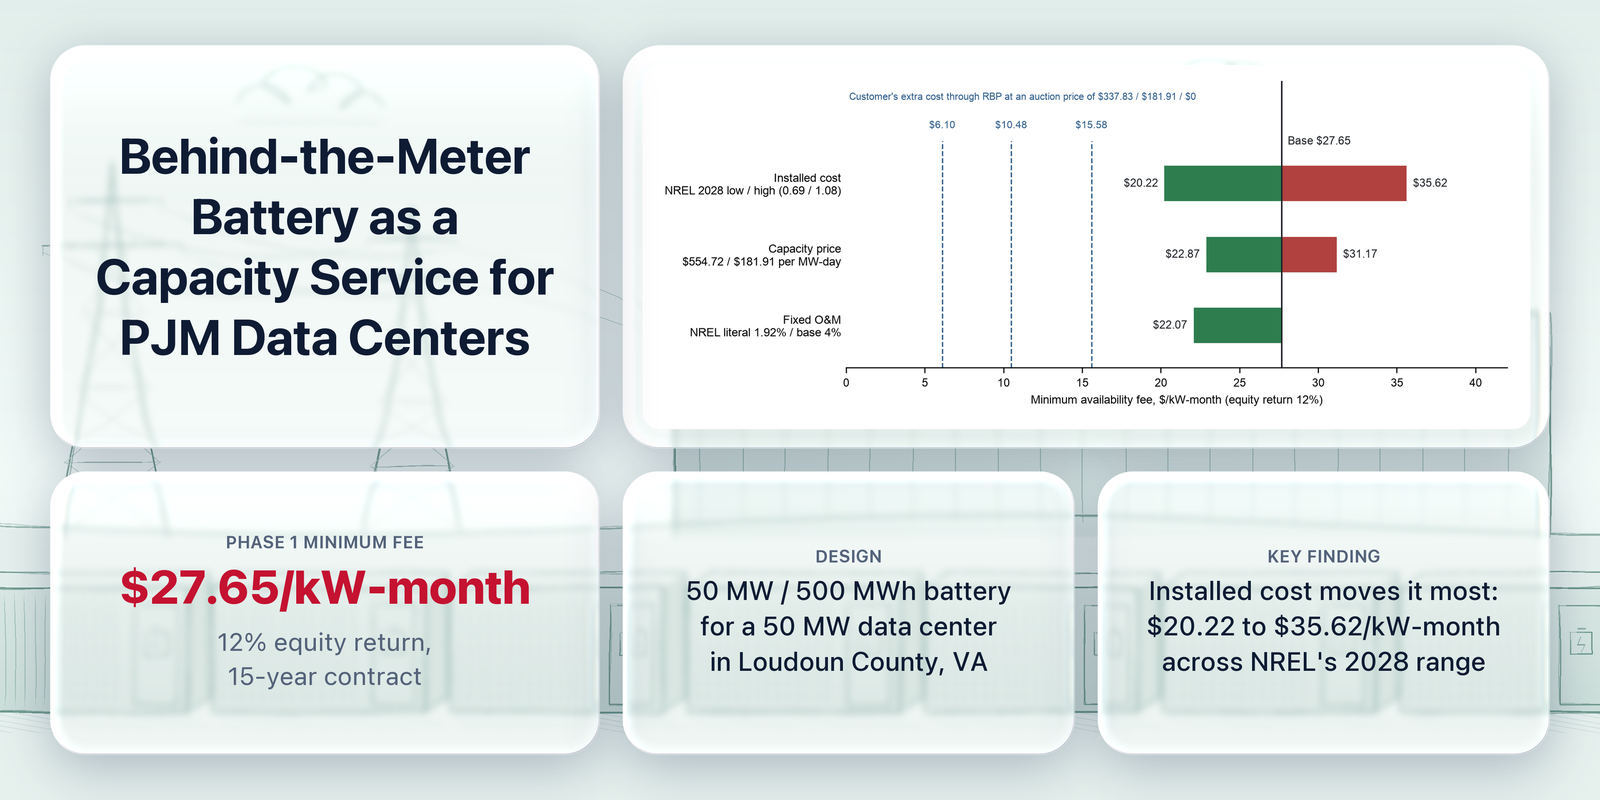
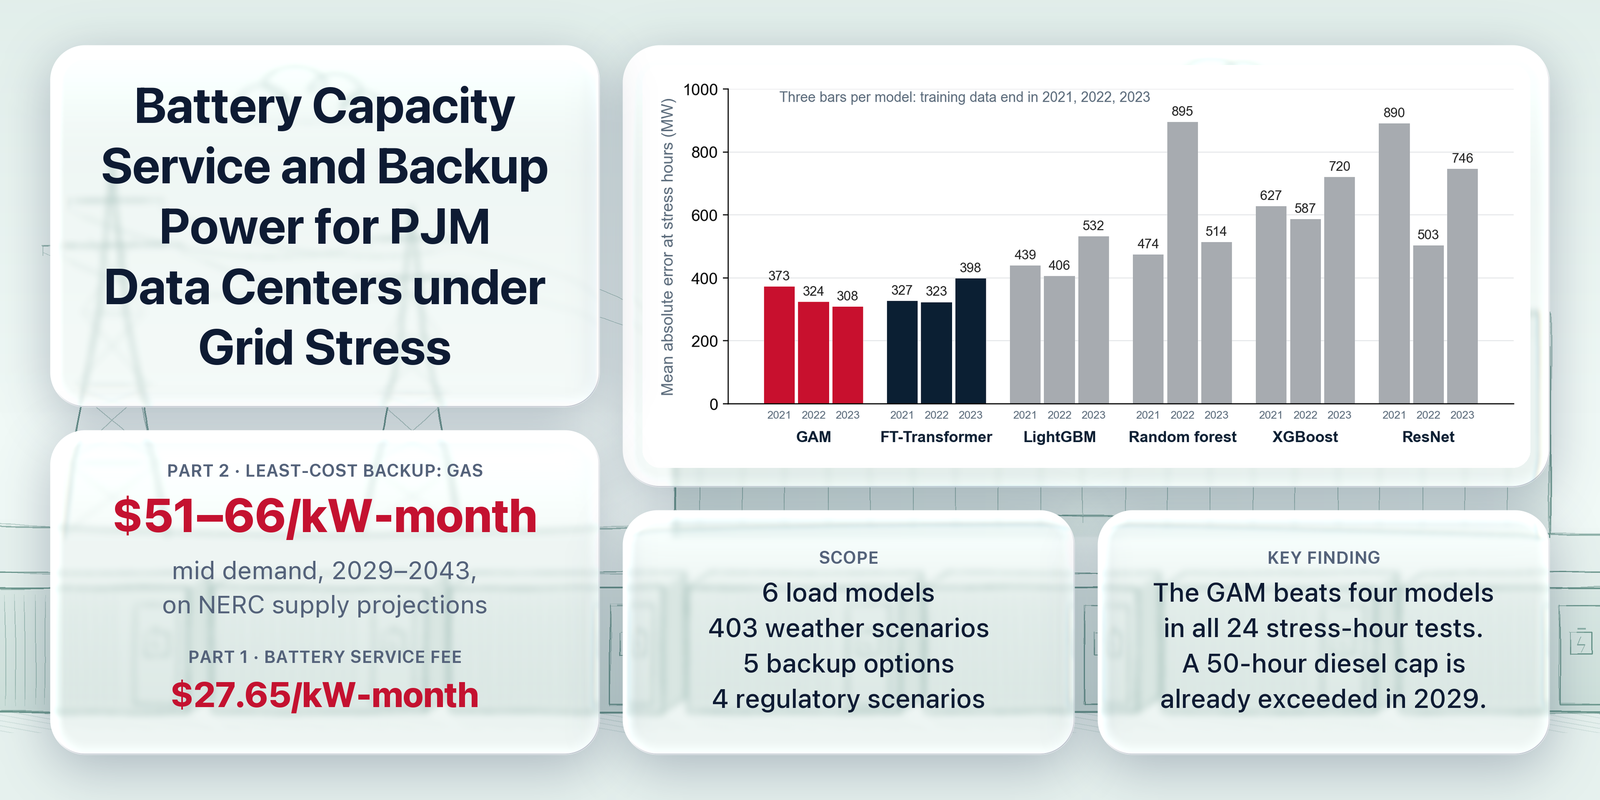
Add Part 2 results: load model comparison and least-cost backup

diff --git a/README.md b/README.md
@@ -1,30 +1,44 @@
-![Behind-the-Meter Battery as a Capacity Service for PJM Data Centers](figures/cover.png)
+![Battery Capacity Service and Backup Power for PJM Data Centers under Grid Stress](figures/cover.png)
 
-A feasibility study and 15-year project-finance model for a 50 MW / 500 MWh battery that would supply the new capacity a 50 MW data center in Loudoun County, Virginia, must bring under a proposed PJM rule.
+A two-part study of how a new 50 MW data center campus in PJM's Dominion zone (Loudoun County, Virginia) can keep its power when the grid is short. Part 1 prices a behind-the-meter battery as the campus's own capacity under a proposed PJM rule. After FERC rejected that rule, Part 2 asks how many hours a year the campus will be called off the grid in 2029–2043 and which on-site backup is cheapest.
 
 *Work in progress, independent study at Carnegie Mellon University (since Aug. 2026). Advisor: Prof. Nathan Williams (CMU Africa).*
 
-## Status: redesign after the FERC order
-
-The report and model in this repository assume PJM's proposed Interim Resource Adequacy Service (IRAS), under which a new large load that does not bring its own new capacity (BYONC) is curtailed first in a capacity shortage. On October 9, 2026, the day the report was submitted, FERC accepted PJM's definition of Large Load and the Large Load Registry but rejected IRAS and the BYONC rules (197 FERC ¶ 61,019, Docket No. ER26-3515-000). The service studied here therefore has no market under the current rules.
-
-The study is now being redesigned around the data center operator's least-cost on-site backup among diesel, gas, battery and hybrid options under three regulatory scenarios. A second strand forecasts load peaks: `pipeline/` builds the hourly dataset for comparing GAM, tree-based and Transformer models on extrapolating to record peaks. Only the data-preparation stage is complete so far.
-
-## Phase 1 results (report dated October 9, 2026)
+## Part 1: battery capacity service (report dated October 9, 2026)
 
 - **Design.** A 50 MW / 500 MWh lithium iron phosphate battery behind the customer's meter, registered as the load's demand response. At PJM's 90% demand-resource rating it accredits 45.0 MW, 97.5% of the load's 46.16 MW obligation, and its 10 hours cover 15 of the 16 recorded Dominion-zone dispatch days.
 - **Price.** The minimum availability fee that gives equity a 12% return is **$27.65/kW-month** over a 15-year contract.
 - **Financing.** CAPEX of $135.1M is funded by $55.7M of debt and $79.4M of equity; selling the 30% investment tax credit returns $36.5M in the first year. Project IRR is 8.68% and the minimum debt service coverage ratio is 1.42x.
 - **Sensitivity.** Installed cost moves the fee most, from $20.22 to $35.62/kW-month across NREL's 2028 low and high cost projections.
-- **Recommendation.** Study further on a limited budget up to a go/no-go gate on March 31, 2027, conditional on FERC accepting IRAS. That condition failed (see above).
+- **Recommendation.** Study further on a limited budget up to a go/no-go gate on March 31, 2027, conditional on FERC accepting the rule.
+
+## The FERC order
+
+Part 1 assumes PJM's proposed Interim Resource Adequacy Service (IRAS), under which a new large load that does not bring its own new capacity (BYONC) is curtailed first in a capacity shortage. On October 9, 2026, the day the report was submitted, FERC accepted PJM's definition of Large Load and the Large Load Registry but rejected IRAS and the BYONC rules (197 FERC ¶ 61,019, Docket No. ER26-3515-000). The capacity service therefore has no market under the current rules, and the condition in the Part 1 recommendation failed.
+
+The underlying problem remains: PJM is short of capacity, and a large campus can still be told to run on its own power. Part 2 studies that case from the operator's side.
+
+## Part 2: backup power under grid stress (results as of November 16, 2026)
+
+Five on-site options are compared for the same 50 MW campus: diesel, gas, battery, battery + diesel, and battery + gas. Four regulatory scenarios set when the campus is called off the grid and how diesel may be used: only under a DOE emergency order (A), or on every stress day with diesel limited by its 500-hour permit (B), capped at 50 non-outage hours a year (C), or not allowed (D).
+
+![Mean absolute error at stress hours for six load models](figures/model_comparison.png)
+
+- **Load model.** Six models were trained on Dominion-zone hourly load with the inputs of PJM's own load forecast: a GAM, a random forest, LightGBM, XGBoost, a ResNet, and an FT-Transformer. All follow one protocol: a 60-trial search, three rolling origins (training to the end of 2021, 2022, and 2023), and Welch tests with a Bonferroni correction. The GAM beats the three tree models and the ResNet in all 24 stress-hour comparisons; these four underpredict stress hours by 0.4–1.5 GW. Against the FT-Transformer there is no stable difference, so the simpler model, the GAM, is used.
+- **Stress hours.** A stress day is one whose PJM system peak reaches the range in PJM's capacity assessments (149.9–153.8 GW in summer). Hours are counted over PJM's 403 hourly weather scenarios with ten years of model residuals (4,030 simulated years) and NERC's three supply projections. On all three, a cap of 50 diesel hours a year is already exceeded in 2029, and a 6-hour battery holds only until 2029–2031.
+- **Cost.** On NERC's three supply projections, gas (seven 10 MW units) is the cheapest long-run option in all four scenarios and on all three demand paths, at **$51–66 per kW of campus load per month** at mid demand in scenarios B–D. Diesel exceeds its 500-hour permit in 2031–2037 even at low demand, and batteries cannot cover the long events.
+- **Bridge.** Gas can be in service in May 2030 at the earliest, so the first years need a diesel or battery + diesel bridge.
+
+These results come from an interim report and may still change. The Part 2 report and modeling code are not in this repository yet; `pipeline/` holds the data preparation they build on.
 
 ## Repository contents
 
 | Path | Contents |
 |---|---|
-| `report/BTM_Battery_Capacity_Service_Report.pdf` | Feasibility report: market, technical, financial, sensitivity, environmental and social, regulatory, risk and development plan |
-| `model/BTM_Battery_Capacity_Service_Model.xlsx` | Excel model: Inputs, Events, Technical, Costs, CashFlow, Results, Sensitivity and Customer sheets. Orange cells are inputs; the ReadMe sheet explains the layout and the Goal Seek step that solves the fee |
+| `report/BTM_Battery_Capacity_Service_Report.pdf` | Part 1 feasibility report: market, technical, financial, sensitivity, environmental and social, regulatory, risk and development plan |
+| `model/BTM_Battery_Capacity_Service_Model.xlsx` | Part 1 Excel model: Inputs, Events, Technical, Costs, CashFlow, Results, Sensitivity and Customer sheets. Orange cells are inputs; the ReadMe sheet explains the layout and the Goal Seek step that solves the fee |
 | `pipeline/` | Python pipeline that cleans ten years of hourly load, price and weather data for the Dominion zone and builds the modelling panel |
+| `figures/model_comparison.png` | Part 2: stress-hour error of the six load models at three training cut-offs |
 
 ## Data pipeline
 
